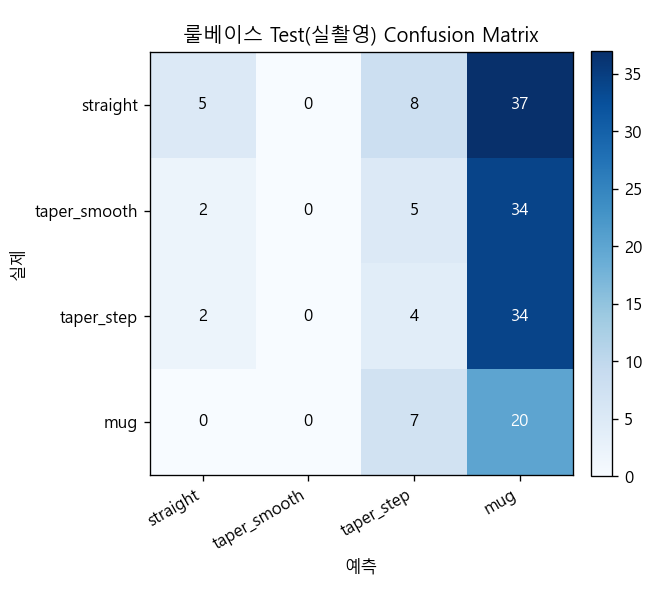
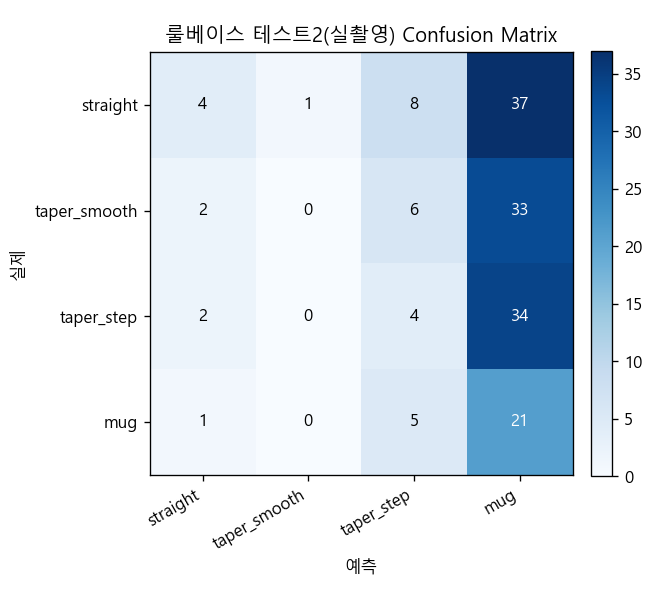
feat: 룰베이스에도 "테스트1/테스트2" 프레이밍 적용 — evaluate_test.py --source 추가
--source test1: dl2_resnet/train.py의 stratified_split()과 알고리즘을
동일하게 복제(같은 CLASSES 순서·정렬·seed=42)해서 data/preprocess에서
ResNet Val과 완전히 동일한 127장을 재현, 룰베이스로 평가. --source test2는
기존 --test-root 방식 그대로(기본 data/test1).

결과: 테스트1 63.0%(80/127, Macro-F1 0.610), 테스트2 18.4%(29/158,
Macro-F1 0.135, 기존과 오차범위 내 동일). ResNet-18(TTA, 96.9%->82.3%,
하락폭 14.6%p)과 나란히 비교하면 룰베이스는 63.0%->18.4%로 하락폭이
44.6%p나 돼서 도메인 시프트에 훨씬 취약함이 정량적으로 재확인됨 — 정면
사진 전제가 깨지면 무너지는 방식이라는 기존 가설을 뒷받침.

Claude-Session: https://claude.ai/code/session_017RchT2YestydpNo3gmGA3i

diff --git a/src/rule_based/evaluate_test.py b/src/rule_based/evaluate_test.py
@@ -1,17 +1,25 @@
-"""룰베이스(get_mask + classify_shape)를 data/test(직접 촬영 실사진)로 평가한다.
+"""룰베이스(get_mask + classify_shape)를 평가한다.
 
 다른 트랙(dl1_maskrcnn/evaluate_test.py, dl2_resnet/train.py)과 같은 방식으로
 confusion matrix를 reports/figures/rule_based/에 저장한다.
 
+--source test1은 dl2_resnet/train.py와 정확히 동일한 stratified_split(같은
+CLASSES 순서·같은 정렬·같은 seed=42)을 재현해서, data/preprocess에서 ResNet의
+Val과 "완전히 똑같은 127장"을 뽑는다 — 트랙 간 코드 공유는 안 하지만(코드 분리
+원칙) 알고리즘만 동일하게 복제해서 같은 파일 집합이 나오도록 함. --source test2는
+기존처럼 --test-root(직접 촬영)를 그대로 평가.
+
 실행:
-    python src/rule_based/evaluate_test.py --test-root data/test1
+    python src/rule_based/evaluate_test.py --source test2 --test-root data/test1
+    python src/rule_based/evaluate_test.py --source test1
 """
 
 import argparse
 import os
+import random
 import sys
 import time
-from collections import Counter
+from collections import Counter, defaultdict
 
 sys.stdout.reconfigure(line_buffering=True, encoding="utf-8")  # 리다이렉트 시 즉시 출력 + cp949 인코딩 에러 방지
 
@@ -45,6 +53,27 @@ def list_samples(root: str):
             if os.path.splitext(name)[1].lower() in (".jpg", ".jpeg", ".png"):
                 samples.append((os.path.join(class_dir, name), cls))
     return samples
+
+
+def stratified_val_split(samples, val_ratio: float, seed: int):
+    """dl2_resnet/train.py의 stratified_split()과 알고리즘을 동일하게 복제한 것.
+
+    라벨이 문자열(cls)이라는 점만 다르고, 클래스별 그룹화 순서(CLASSES 순서대로
+    처음 등장한 순)·그룹 내 정렬·rng.shuffle 호출 순서가 전부 같아서 같은
+    seed에서는 같은 파일 집합이 val로 뽑힌다. 반환값 중 val 세트만 쓴다
+    (train 세트는 룰베이스가 애초에 학습을 안 하므로 불필요).
+    """
+    by_class = defaultdict(list)
+    for path, cls in samples:
+        by_class[cls].append((path, cls))
+    rng = random.Random(seed)
+    val = []
+    for items in by_class.values():
+        items = items[:]
+        rng.shuffle(items)
+        n_val = max(1, int(len(items) * val_ratio))
+        val.extend(items[:n_val])
+    return val
 
 
 def precision_recall_f1(matrix):
@@ -83,12 +112,23 @@ def plot_confusion(matrix, title: str, out_path: str):
 
 def main() -> None:
     parser = argparse.ArgumentParser(description=__doc__, formatter_class=argparse.RawDescriptionHelpFormatter)
-    parser.add_argument("--test-root", default="data/test")
+    parser.add_argument("--source", choices=["test1", "test2"], default="test2",
+                         help="test1=ResNet Val과 동일한 127장(data/preprocess), test2=직접 촬영(--test-root)")
+    parser.add_argument("--test-root", default="data/test1", help="--source test2일 때만 사용")
+    parser.add_argument("--data-root", default="data/preprocess", help="--source test1일 때만 사용")
+    parser.add_argument("--val-split", type=float, default=0.2)
+    parser.add_argument("--split-seed", type=int, default=42, help="dl2_resnet/train.py의 --seed와 동일해야 같은 127장이 재현됨")
     parser.add_argument("--out-dir", default="reports/figures")
     args = parser.parse_args()
 
-    samples = list_samples(args.test_root)
-    print(f"{args.test_root}: 총 {len(samples)}장\n")
+    if args.source == "test1":
+        all_samples = list_samples(args.data_root)
+        samples = stratified_val_split(all_samples, args.val_split, args.split_seed)
+        source_label = f"{args.data_root}(Val {len(samples)}장, ResNet 테스트1과 동일)"
+    else:
+        samples = list_samples(args.test_root)
+        source_label = args.test_root
+    print(f"{source_label}: 총 {len(samples)}장\n")
 
     cls_to_idx = {c: i for i, c in enumerate(CLASSES)}
     matrix = np.zeros((len(CLASSES), len(CLASSES)), dtype=int)
@@ -135,8 +175,12 @@ def main() -> None:
 
     out_dir = os.path.join(args.out_dir, "rule_based")
     os.makedirs(out_dir, exist_ok=True)
-    cm_path = os.path.join(out_dir, "test_confusion_matrix.png")
-    plot_confusion(matrix, "룰베이스 Test(실촬영) Confusion Matrix", cm_path)
+    if args.source == "test1":
+        cm_path = os.path.join(out_dir, "test1_val_confusion_matrix.png")
+        plot_confusion(matrix, "룰베이스 테스트1(같은 도메인 Val) Confusion Matrix", cm_path)
+    else:
+        cm_path = os.path.join(out_dir, "test_confusion_matrix.png")
+        plot_confusion(matrix, "룰베이스 테스트2(실촬영) Confusion Matrix", cm_path)
     print(f"\nconfusion matrix 저장: {cm_path}")
 
 

diff --git a/docs/experiment-log.md b/docs/experiment-log.md
@@ -46,6 +46,8 @@
 | 2026-09-16 | Claude | mug 붕괴 원인을 실제 이미지로 직접 진단(taper_step 손잡이 사진, straight 하향각 사진에 `get_mask`/`classify_shape` 수동 실행) 후 `compute_width_profile()`을 "구간 내 min-max 폭" → "행별 최장 연속 전경 구간 폭의 중앙값"으로 수정(`shape_classifier.py`). 사용자가 직접 검수한 `data/test1`(158장, straight/taper_smooth/taper_step/mug 각 50/41/40/27장)으로 재평가 | - | **18.4%(29/158)**, Macro-F1 0.139 | 합성 마스크 pytest 10개 전부 통과(손잡이가 몸통에 맞닿은 합성 케이스는 연속 구간이 하나로 합쳐져 이전과 동일하게 동작 — 회귀 없음). 클래스별: straight 5/50(10.0%), taper_smooth 0/41(0.0%), taper_step 4/40(10.0%), mug 20/27(74.1%) — **여전히 나머지 3클래스 대부분 mug로 쏠림**(37/50, 34/41, 34/40). 진단 결과 원인은 폭 계산 로직이 아니라 그 앞 단계: taper_step 손잡이 사진에서 `get_mask()`의 최종 정제 단계(`_rough_mask_canny`의 15x15 morphological close)가 손잡이의 그립 구멍을 GrabCut 이전에 이미 메워버려서, 구멍이 배경으로 살아남는 경우가 거의 없음(실측: FILLED 전후 전경 픽셀 수 완전히 동일, 즉 애초에 뚫린 적이 없었음) — 그래서 폭 계산을 고쳐도 효과가 제한적. `data/test`(11.5%) 대비 정확도·Macro-F1 둘 다 개선됐지만(테스트셋이 달라 완전한 비교는 아님), 근본 원인(segmentation 단계의 구멍 메움)은 아직 해결 안 됨 — closing 커널을 줄이면 저대비 배경 분리가 다시 약해지는 trade-off가 있어 추가 검토 필요 |
 | 2026-09-16 | Claude | (**시도했다가 되돌림**) segmentation 단계에서 손잡이 구멍을 실제로 살리는 시도 3단계: ① `RETR_CCOMP`로 구멍(자식 컨투어)을 감지해 배경으로 유지하는 `_fill_largest_contour_preserving_holes()` 추가 → Canny 경로(엣지-선 입력)에 적용했더니 마스크가 반전되는 회귀 발견, Canny는 원래 방식으로 되돌림. ② Otsu 경로에만 적용 + union(OR) 특성상 Canny가 구멍을 다시 메우는 문제 발견 → Otsu가 판단한 구멍을 union에서 강제로 다시 파내는 로직 추가. ③ 그래도 GrabCut의 매끄러움(smoothness) 항이 고립된 배경 섬을 주변 전경 쪽으로 끌어당겨 구멍을 다시 삼키는 것 확인 → `GC_BGD`(확정 배경, 절대 안 뒤집힘) 하드 제약으로 전달하도록 `_grabcut_refine()` 확장 | - | **data/test1: 17.1%(27/158), Macro-F1 0.127 — 이전(18.4%/0.139)보다 오히려 하락** | 진단했던 특정 사진(손잡이 상하 연결부가 몸통에 실제로 맞닿아 있어 그 부분은 애초에 살릴 수 없는 진짜 구조)은 부분적으로만 개선되고 최종 분류는 그대로 mug였음. 158장 전체로는 순 하락 — 아마 다른 사진들(반사광·하이라이트 등)에서 진짜 물체 표면을 "구멍"으로 오인해 배경으로 파내는 부작용이 이득보다 컸던 것으로 추정(정밀 원인 미분석). **`shape_classifier.py`는 이 변경 전(median 폭 계산 유지) 상태로 롤백함.** 세그멘테이션 단계를 더 손대는 접근은 위험 대비 이득이 낮아 보임 — 다음에 시도한다면 "어떤 사진에서 새로 나빠졌는지" 먼저 특정하고 시작할 것 |
 
+| 2026-09-16 | Claude | **"테스트1/테스트2" 프레이밍을 룰베이스에도 적용** — `evaluate_test.py`에 `--source test1` 추가. dl2_resnet/train.py의 stratified_split()과 동일한 알고리즘(같은 CLASSES 순서·정렬·seed=42)을 복제해서 `data/preprocess`에서 ResNet의 Val과 **완전히 동일한 127장**을 재현, 룰베이스로 평가. 테스트2는 `data/test1`(158장)로 재확인 | - | **테스트1: 63.0%(80/127), Macro-F1 0.610** / **테스트2: 18.4%(29/158), Macro-F1 0.135**(기존과 오차범위 내 동일) | ResNet-18(TTA, 96.9%→82.3%, 하락폭 14.6%p)과 나란히 비교: 룰베이스는 63.0%→18.4%로 **하락폭이 44.6%p**나 돼서 절대 수치도 낮고 도메인 시프트에 더 취약하다는 게 숫자로 재확인됨. 테스트1(크롤링 이미지, 대부분 정면 카탈로그 컷)에서는 그럭저럭 쓸만하다는 것도 확인 — 즉 룰베이스가 "아예 안 되는" 게 아니라 "정면 사진 전제가 깨지면 무너지는" 방식이라는 원래 가설이 정량적으로 뒷받침됨 |
+
 ## Mask R-CNN (`src/deep_learning/dl1_maskrcnn/`)
 
 | 날짜 | 담당자 | 변경 사항 | Val 정확도 | Test 정확도 | 비고 |
